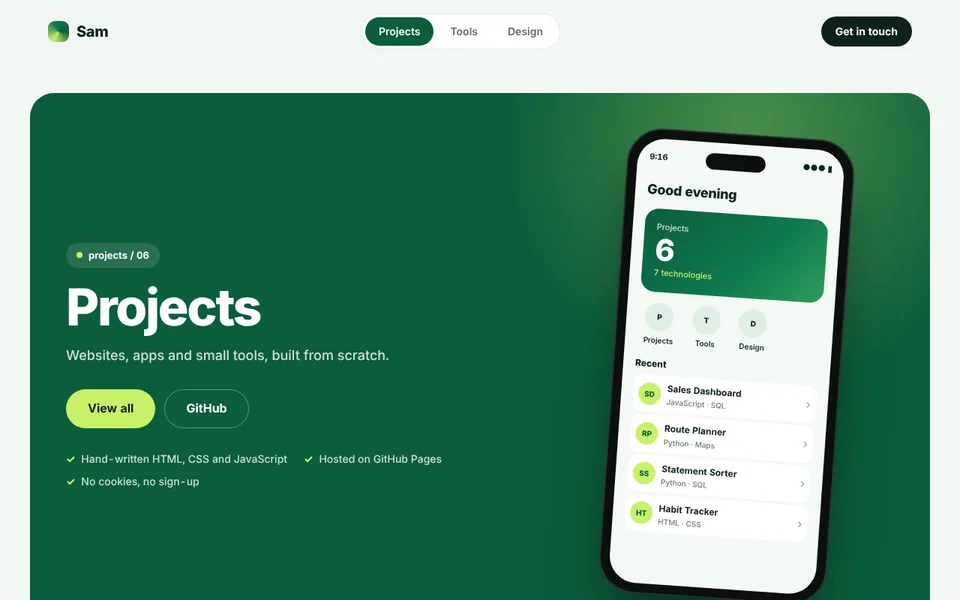
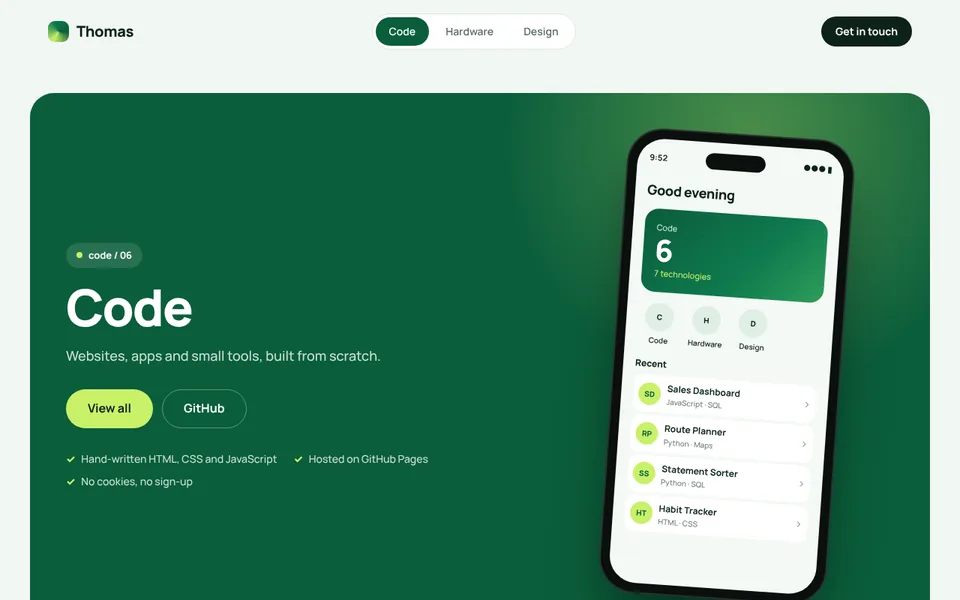
Design page themes: drop the dot, retake previews with the real name
The example site used for theme screenshots had a placeholder name
(Sam Taylor); it now says Thomas Fitzgerald and every preview.webp is retaken.

Claude-Session: https://claude.ai/code/session_0166s5JyE7JZ2uR9c1HAjwLE

diff --git a/themes/_example/index.html b/themes/_example/index.html
@@ -37,7 +37,7 @@
      Open it with #preview-<theme> on the end, e.g. index.html#preview-saas -->
 <body data-page="code">
     <header class="navbar">
-        <a href="#" class="logo">Sam Taylor</a>
+        <a href="#" class="logo">Thomas Fitzgerald</a>
         <nav class="nav">
             <a href="#" class="active">CODE</a>
             <a href="#">HARDWARE</a>

diff --git a/style.css b/style.css
@@ -521,7 +521,6 @@ img.thumb {
 }
 
 .tp-row[aria-pressed="true"] .tp-num { color: var(--accent); }
-.tp-row[aria-pressed="true"] .tp-name::after { content: " ●"; color: var(--accent); font-size: 9px; vertical-align: 2px; }
 
 
 /* ---------- 7. Design page: the theme previews at the bottom ---------- */
